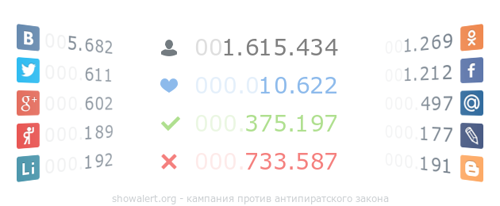
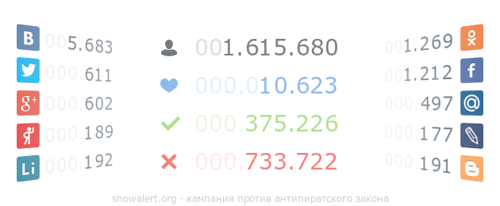
some updates

diff --git a/votes.js b/votes.js
@@ -1,1 +1,1 @@
-window.lk.votes(24400)
+window.lk.votes(24416)
